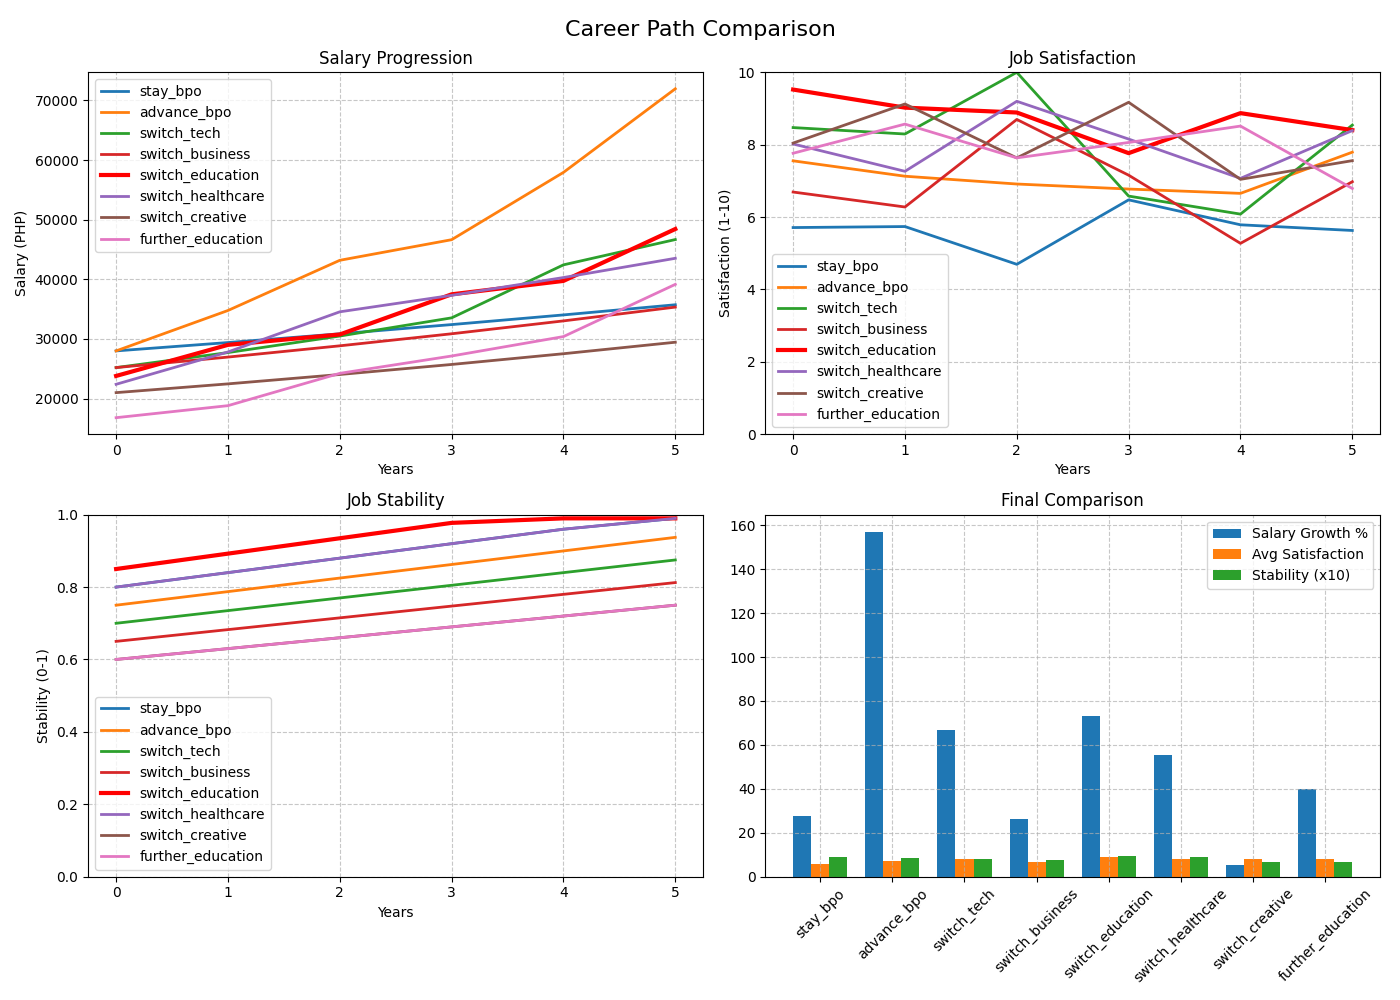
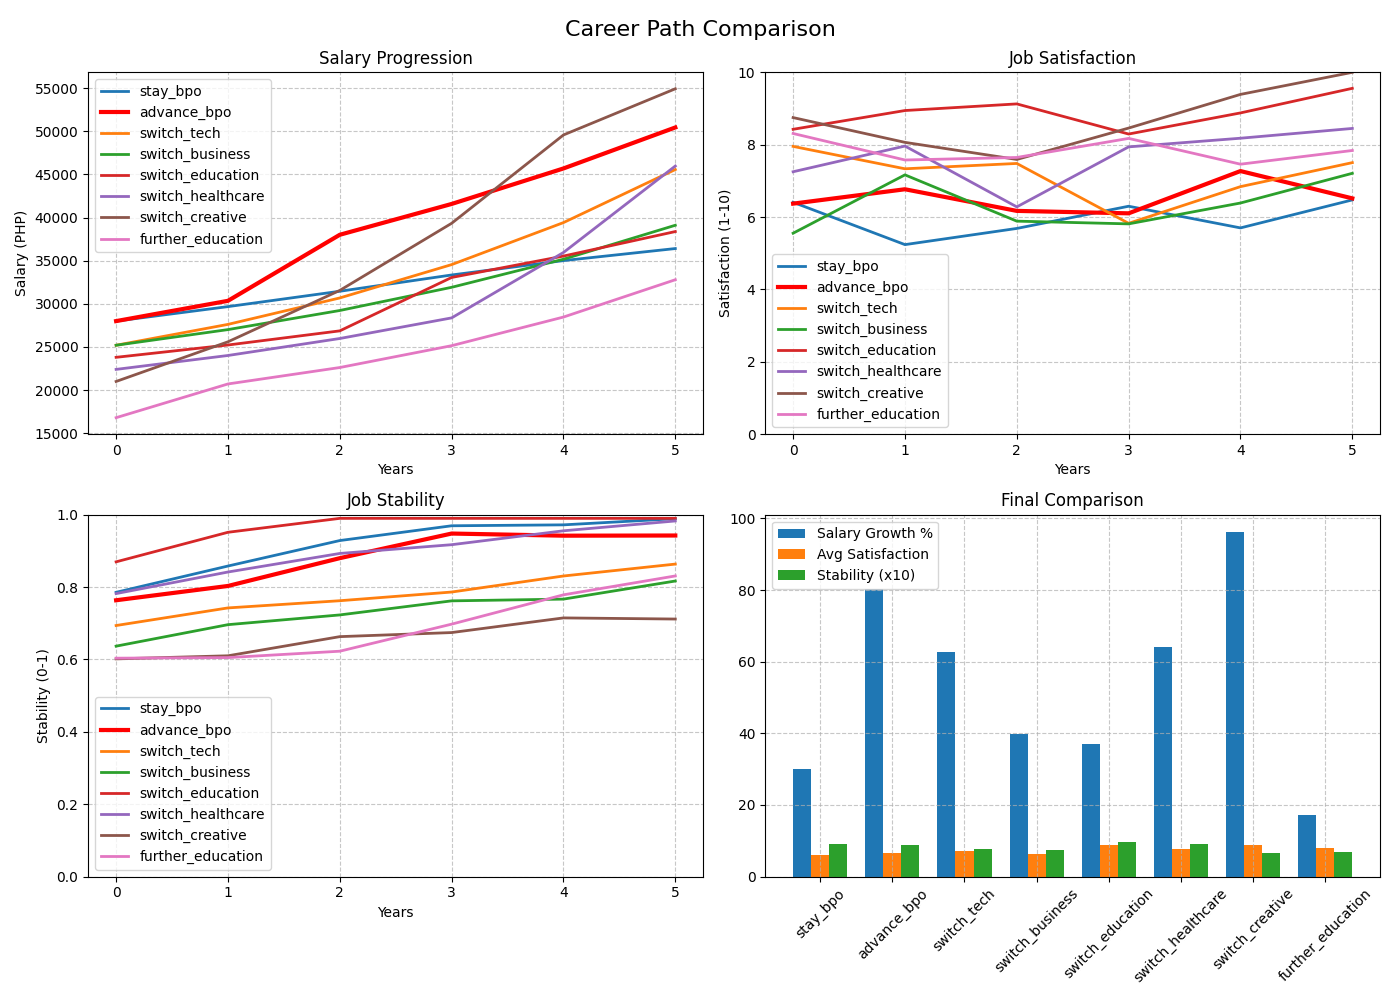
fixed results

diff --git a/career_transition_system.py b/career_transition_system.py
@@ -890,18 +890,26 @@ class ControlShell:
             cons = blackboard.pros_cons[option_id]["cons"]
 
             # Calculate weighted score from pros and cons
-            pro_score = sum(p.get("weight", 0.5) for p in pros)
-            con_score = sum(c.get("weight", 0.5) for c in cons)
+            # Use average weight to avoid penalizing options with more factors
+            avg_pro_weight = sum(p.get("weight", 0.5) for p in pros) / max(1, len(pros))
+            avg_con_weight = sum(c.get("weight", 0.5) for c in cons) / max(1, len(cons))
 
-            # Confidence calculation
-            # Scale to 0-100 and adjust based on number of factors
-            pro_factor = pro_score * (10 / (1 + len(pros))) if pros else 0
-            con_factor = con_score * (10 / (1 + len(cons))) if cons else 0
+            # Bonus for having more pros (diminishing returns after 3)
+            pro_count_bonus = min(15, len(pros) * 5)  # 5 points per pro, max 15
 
-            confidence = pro_factor - (con_factor * 0.8)  # Cons weighted slightly less
+            # Base confidence calculation - scale of 0-100
+            # Start with a baseline of 40 to avoid very low scores
+            base_confidence = 40
 
-            # Scale to 0-100 range and ensure non-negative
-            scaled_confidence = max(0, min(100, confidence * 10))
+            # Add weighted contribution from pros and cons
+            pro_contribution = avg_pro_weight * 60  # Pros can contribute up to 60 points (increased)
+            con_contribution = avg_con_weight * 25  # Cons can reduce up to 25 points (decreased)
+
+            # Calculate final confidence score
+            confidence = base_confidence + pro_contribution - con_contribution + pro_count_bonus
+
+            # Ensure within 0-100 range
+            scaled_confidence = max(0, min(100, confidence))
 
             blackboard.confidence_scores[option_id] = scaled_confidence
 
@@ -921,7 +929,7 @@ class ControlShell:
         }
 
         # Expert recommendation boost
-        expert_boost = 30  # Points to add for a recommendation
+        expert_boost = 60  # Points to add for a recommendation (increased from 50)
 
         # Apply expert boosts
         for expert, details in blackboard.expert_recommendations.items():
@@ -948,56 +956,72 @@ class CareerSimulation:
                 "promotion_probability": 0.15,  # 15% chance per year
                 "job_satisfaction_baseline": 6.0,  # Scale 1-10
                 "job_satisfaction_variance": 1.0,
-                "stability": 0.8  # High stability
+                "stability": 0.8,  # High stability
+                "growth_acceleration": 0.0,  # No acceleration in growth
+                "salary_ceiling_factor": 1.5  # Limited long-term ceiling (50% above starting)
             },
             "advance_bpo": {
-                "salary_growth_rate": 0.08,  # 8% annual growth
-                "promotion_probability": 0.25,  # 25% chance per year
+                "salary_growth_rate": 0.07,  # 7% annual growth (reduced from 8%)
+                "promotion_probability": 0.20,  # 20% chance per year (reduced from 25%)
                 "job_satisfaction_baseline": 7.0,
                 "job_satisfaction_variance": 1.5,
-                "stability": 0.75
+                "stability": 0.75,
+                "growth_acceleration": 0.005,  # Slight acceleration in growth
+                "salary_ceiling_factor": 2.5  # Moderate ceiling (150% above starting)
             },
             "switch_tech": {
-                "salary_growth_rate": 0.10,  # 10% annual growth
-                "promotion_probability": 0.20,
+                "salary_growth_rate": 0.08,  # 8% initial annual growth (reduced from 10%)
+                "promotion_probability": 0.18,  # 18% chance per year
                 "job_satisfaction_baseline": 7.5,
                 "job_satisfaction_variance": 2.0,
-                "stability": 0.7
+                "stability": 0.7,
+                "growth_acceleration": 0.015,  # Strong acceleration in growth over time
+                "salary_ceiling_factor": 4.0  # High ceiling (300% above starting)
             },
             "switch_business": {
-                "salary_growth_rate": 0.07,
-                "promotion_probability": 0.18,
+                "salary_growth_rate": 0.06,  # 6% initial annual growth
+                "promotion_probability": 0.17,  # 17% chance per year
                 "job_satisfaction_baseline": 7.0,
                 "job_satisfaction_variance": 1.8,
-                "stability": 0.65
+                "stability": 0.65,
+                "growth_acceleration": 0.01,  # Moderate acceleration in growth
+                "salary_ceiling_factor": 3.0  # Good ceiling (200% above starting)
             },
             "switch_education": {
-                "salary_growth_rate": 0.06,  # Moderate growth
-                "promotion_probability": 0.15,
+                "salary_growth_rate": 0.05,  # 5% initial annual growth
+                "promotion_probability": 0.14,  # 14% chance per year
                 "job_satisfaction_baseline": 8.5,  # High satisfaction
                 "job_satisfaction_variance": 1.2,
-                "stability": 0.85  # High stability
+                "stability": 0.85,  # High stability
+                "growth_acceleration": 0.005,  # Slight acceleration in growth
+                "salary_ceiling_factor": 2.0  # Moderate ceiling (100% above starting)
             },
             "switch_healthcare": {
-                "salary_growth_rate": 0.08,  # Good growth
-                "promotion_probability": 0.18,
+                "salary_growth_rate": 0.06,  # 6% initial annual growth
+                "promotion_probability": 0.16,  # 16% chance per year
                 "job_satisfaction_baseline": 7.8,
                 "job_satisfaction_variance": 1.5,
-                "stability": 0.80  # High stability
+                "stability": 0.80,  # High stability
+                "growth_acceleration": 0.01,  # Moderate acceleration in growth
+                "salary_ceiling_factor": 3.5  # Good ceiling (250% above starting)
             },
             "switch_creative": {
-                "salary_growth_rate": 0.07,  # Variable growth
-                "promotion_probability": 0.16,
+                "salary_growth_rate": 0.05,  # 5% initial annual growth
+                "promotion_probability": 0.15,  # 15% chance per year
                 "job_satisfaction_baseline": 8.2,  # High satisfaction potential
                 "job_satisfaction_variance": 2.5,  # But high variance
-                "stability": 0.60  # Lower stability
+                "stability": 0.60,  # Lower stability
+                "growth_acceleration": 0.012,  # Good acceleration for successful creatives
+                "salary_ceiling_factor": 5.0  # Very high ceiling but harder to reach
             },
             "further_education": {
-                "salary_growth_rate": 0.12,  # Higher long-term growth
-                "promotion_probability": 0.22,
+                "salary_growth_rate": 0.06,  # 6% initial annual growth (reduced from 12%)
+                "promotion_probability": 0.16,  # 16% chance per year
                 "job_satisfaction_baseline": 8.0,
                 "job_satisfaction_variance": 1.5,
-                "stability": 0.6  # Lower initial stability due to transition
+                "stability": 0.6,  # Lower initial stability due to transition
+                "growth_acceleration": 0.02,  # Strongest acceleration in growth
+                "salary_ceiling_factor": 4.5  # Very high ceiling (350% above starting)
             }
         }
 
@@ -1064,19 +1088,63 @@ class CareerSimulation:
             ))
             satisfaction.append(current_satisfaction)
 
-            # Calculate stability
-            current_stability = path["stability"] * (1 + 0.05 * year)  # Stability increases with time in role
-            current_stability = min(0.99, current_stability)  # Cap at 99%
+            # Calculate stability - different paths have different stability progression
+            if path_id in ["stay_bpo", "advance_bpo"]:
+                # BPO paths have quick stability gains that plateau
+                stability_factor = 1 + (0.08 * min(year, 3))  # Faster initial increase, plateaus after 3 years
+            elif path_id in ["switch_tech", "switch_business", "switch_healthcare"]:
+                # These paths have moderate stability growth that continues
+                stability_factor = 1 + (0.05 * year)  # Steady increase
+            elif path_id == "switch_education":
+                # Education has high stability that's achieved quickly
+                stability_factor = 1 + (0.1 * min(year, 2))  # Very fast initial increase, plateaus after 2 years
+            elif path_id == "switch_creative":
+                # Creative has slower stability growth with more variability
+                stability_factor = 1 + (0.04 * year) + (0.02 * np.random.random())  # Slower increase with randomness
+            elif path_id == "further_education":
+                # Further education has low initial stability that improves significantly over time
+                stability_factor = 1 + (0.03 * year) + (0.08 * max(0, year-2))  # Accelerates after year 2
+            else:
+                # Default case
+                stability_factor = 1 + (0.05 * year)
+
+            # Apply stability factor and add randomness based on variance
+            base_stability = path["stability"] * stability_factor
+            stability_variance = 0.05  # 5% variance in stability
+            current_stability = base_stability * (1 + (stability_variance * (np.random.random() - 0.5)))
+
+            # Cap at 99%
+            current_stability = min(0.99, current_stability)
             stability.append(current_stability)
 
             # Update for next year if not at the end
             if year < self.time_horizon:
-                # Apply salary growth
-                current_salary *= (1 + path["salary_growth_rate"])
+                # Calculate growth rate with acceleration
+                current_growth_rate = path["salary_growth_rate"] + (path["growth_acceleration"] * year)
+
+                # Apply salary growth with ceiling check
+                max_salary = initial_salary * path["salary_ceiling_factor"]
+                growth_factor = 1 + current_growth_rate
+                potential_new_salary = current_salary * growth_factor
+
+                # Apply ceiling effect - growth slows as approaching ceiling
+                if potential_new_salary > max_salary * 0.8:
+                    # Apply diminishing returns as approaching ceiling
+                    ceiling_proximity = (potential_new_salary - (max_salary * 0.8)) / (max_salary * 0.2)
+                    growth_dampening = 1 - (ceiling_proximity * 0.8)  # Reduce growth by up to 80%
+                    growth_factor = 1 + (current_growth_rate * growth_dampening)
+
+                current_salary *= growth_factor
 
                 # Apply promotion chance
                 if np.random.random() < path["promotion_probability"]:
-                    current_salary *= 1.15  # 15% boost for promotion
+                    promotion_boost = 1.15  # Base 15% boost for promotion
+
+                    # Smaller boost if close to ceiling
+                    if current_salary > max_salary * 0.9:
+                        promotion_boost = 1.05  # Reduced to 5% if near ceiling
+
+                    current_salary *= promotion_boost
 
         # Calculate aggregate metrics
         final_salary = salaries[-1]
